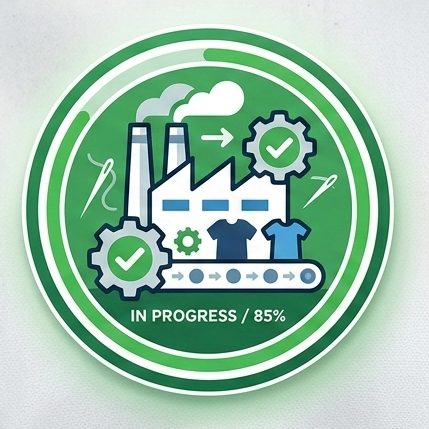
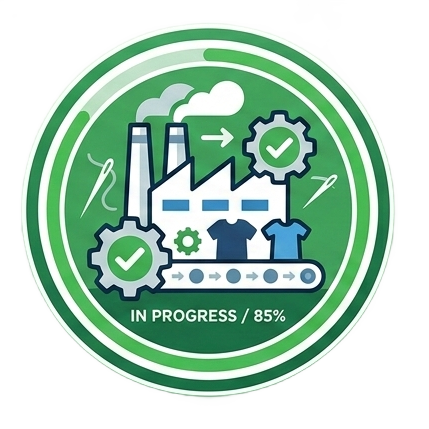
update 3 modules

diff --git a/src/views/IframeView.js b/src/views/IframeView.js
@@ -1,0 +1,52 @@
+import React from "react";
+import { useLocation, useNavigate } from "react-router-dom";
+import { ArrowLeft } from "lucide-react";
+
+const IframeView = ({ onBack }) => {
+  const location = useLocation();
+  const navigate = useNavigate();
+  const { url, title } = location.state || {};
+
+  const handleBack = () => {
+    if (onBack) onBack();
+    else navigate(-1);
+  };
+
+  if (!url) {
+    return (
+      <div className="flex items-center justify-center h-screen bg-slate-900 text-white">
+        <p>No URL provided.</p>
+      </div>
+    );
+  }
+
+  return (
+    <div className="flex flex-col h-screen bg-slate-900">
+      {/* Header bar */}
+      <div className="flex items-center gap-3 px-4 py-3 bg-slate-800 border-b border-slate-700 shrink-0">
+        <button
+          onClick={handleBack}
+          className="flex items-center gap-2 text-white hover:text-cyan-400 transition-colors duration-200"
+        >
+          <ArrowLeft size={20} />
+          <span className="font-semibold text-sm">Back</span>
+        </button>
+        {title && (
+          <span className="text-white font-bold text-sm ml-2 uppercase tracking-widest opacity-70">
+            {title}
+          </span>
+        )}
+      </div>
+
+      {/* Iframe */}
+      <iframe
+        src={url}
+        title={title || "Module"}
+        className="flex-1 w-full border-0"
+        allow="fullscreen"
+      />
+    </div>
+  );
+};
+
+export default IframeView;

diff --git a/src/data/module.js b/src/data/module.js
@@ -305,8 +305,8 @@ export const DASHBOARD_DATA = [
           },
           {
             id: "production-status",
-            title: "Production Status",
-            image: "assets/modules-image/new-icons-modules/production-status.png?v=1",
+            title: "YWIP",
+            image: "assets/modules-image/new-icons-modules/production-status.png?v=2",
             status: "active",
           },
           {
@@ -337,8 +337,10 @@ export const DASHBOARD_DATA = [
           {
             id: "4dp",
             title: "4DP",
-            image: "assets/modules-image/new-icons-modules/4DP.jpg?v=1",
+            image: "assets/modules-image/new-icons-modules/4DP.png?v=3",
             status: "active",
+            demoType: "IFRAME_VIEW",
+            url: "https://4dp.yaikh.com",
           },
         ],
       },
@@ -349,8 +351,10 @@ export const DASHBOARD_DATA = [
           {
             id: "ypi",
             title: "YPI",
-            image: "assets/modules-image/new-icons-modules/YPI.png?v=1",
+            image: "assets/modules-image/new-icons-modules/YPI.png?v=2",
             status: "active",
+            demoType: "EXTERNAL_URL",
+            url: "https://ypm.yaikh.com",
           },
         ],
       },
@@ -361,7 +365,7 @@ export const DASHBOARD_DATA = [
           {
             id: "mrp",
             title: "MRP",
-            image: "assets/modules-image/new-icons-modules/MRP.jpg?v=1",
+            image: "assets/modules-image/new-icons-modules/MRP.png",
             status: "active",
           },
         ],

diff --git a/src/AppLayout.js b/src/AppLayout.js
@@ -93,6 +93,10 @@ const AppLayout = () => {
         navigate("/dashboard/system-analysis");
       } else if (demoType === "IMAGE_VIEW")
         navigate(`/dashboard/image/${module.image}`);
+      else if (demoType === "IFRAME_VIEW")
+        navigate("/dashboard/iframe", { state: { url: module.url, title: module.title } });
+      else if (demoType === "EXTERNAL_URL")
+        window.open(module.url, "_blank", "noopener,noreferrer");
       else if (demoType === "VIEW_SYSTEM_ANALYSIS")
         navigate(`/dashboard/${id}`);
       else if (demoType === "SUBMENU_YHR") {

diff --git a/src/components/ColumnGroup.js b/src/components/ColumnGroup.js
@@ -4,8 +4,8 @@ import { useTranslation } from '../translate/TranslationContext';
 
 const ColumnGroup = ({ group, onModuleClick, botVersion = 'default', onBotModuleClick, isDropdownOpen = false, isLightOn = false, isAdministration = false, isOperations = false, theme = 'normal' }) => {
   const { translateModuleTitle } = useTranslation();
-  // Check if this group should have orange styling (QA, Production, DT Sync)
-  const isOrangeGroup = group.id === 'qa-col' || group.id === 'prod-col' || group.id === 'dtsync-col';
+  // Check if this group should have orange styling (QA, Production, DT Sync, 4DP, YPI, MRP)
+  const isOrangeGroup = group.id === 'qa-col' || group.id === 'prod-col' || group.id === 'dtsync-col' || group.id === '4dp-col' || group.id === 'ypi-col' || group.id === 'mrp-col';
   // Check if this group should have white styling (PRE PRO, Production Materials)
   const isWhiteGroup = group.id === 'prepro-col' || group.id === 'prodmat-col';
   

diff --git a/src/App.js b/src/App.js
@@ -17,6 +17,7 @@ import MeterDeviceListView from "./views/MeterDeviceListView";
 import SystemAnalysisView from "./views/SystemAnalysisView";
 import ShopGridView from "./views/ShopGridView";
 import ImageView from "./views/ImageView";
+import IframeView from "./views/IframeView";
 import VerifyPR from "./accountant/verify-pr";
 import ApprovalPR from "./accountant/approval-pr";
 import PayPR from "./accountant/pay-pr";
@@ -189,6 +190,7 @@ export default function App() {
           />
           <Route path="submenu/:moduleId" element={<SubMenuView />} />
           <Route path="image/*" element={<ImageView onBack={handleBack} />} />
+          <Route path="iframe" element={<IframeView onBack={handleBack} />} />
           <Route path="verify-pr" element={<VerifyPR onBack={handleBack} />} />
           <Route
             path="approval-pr"